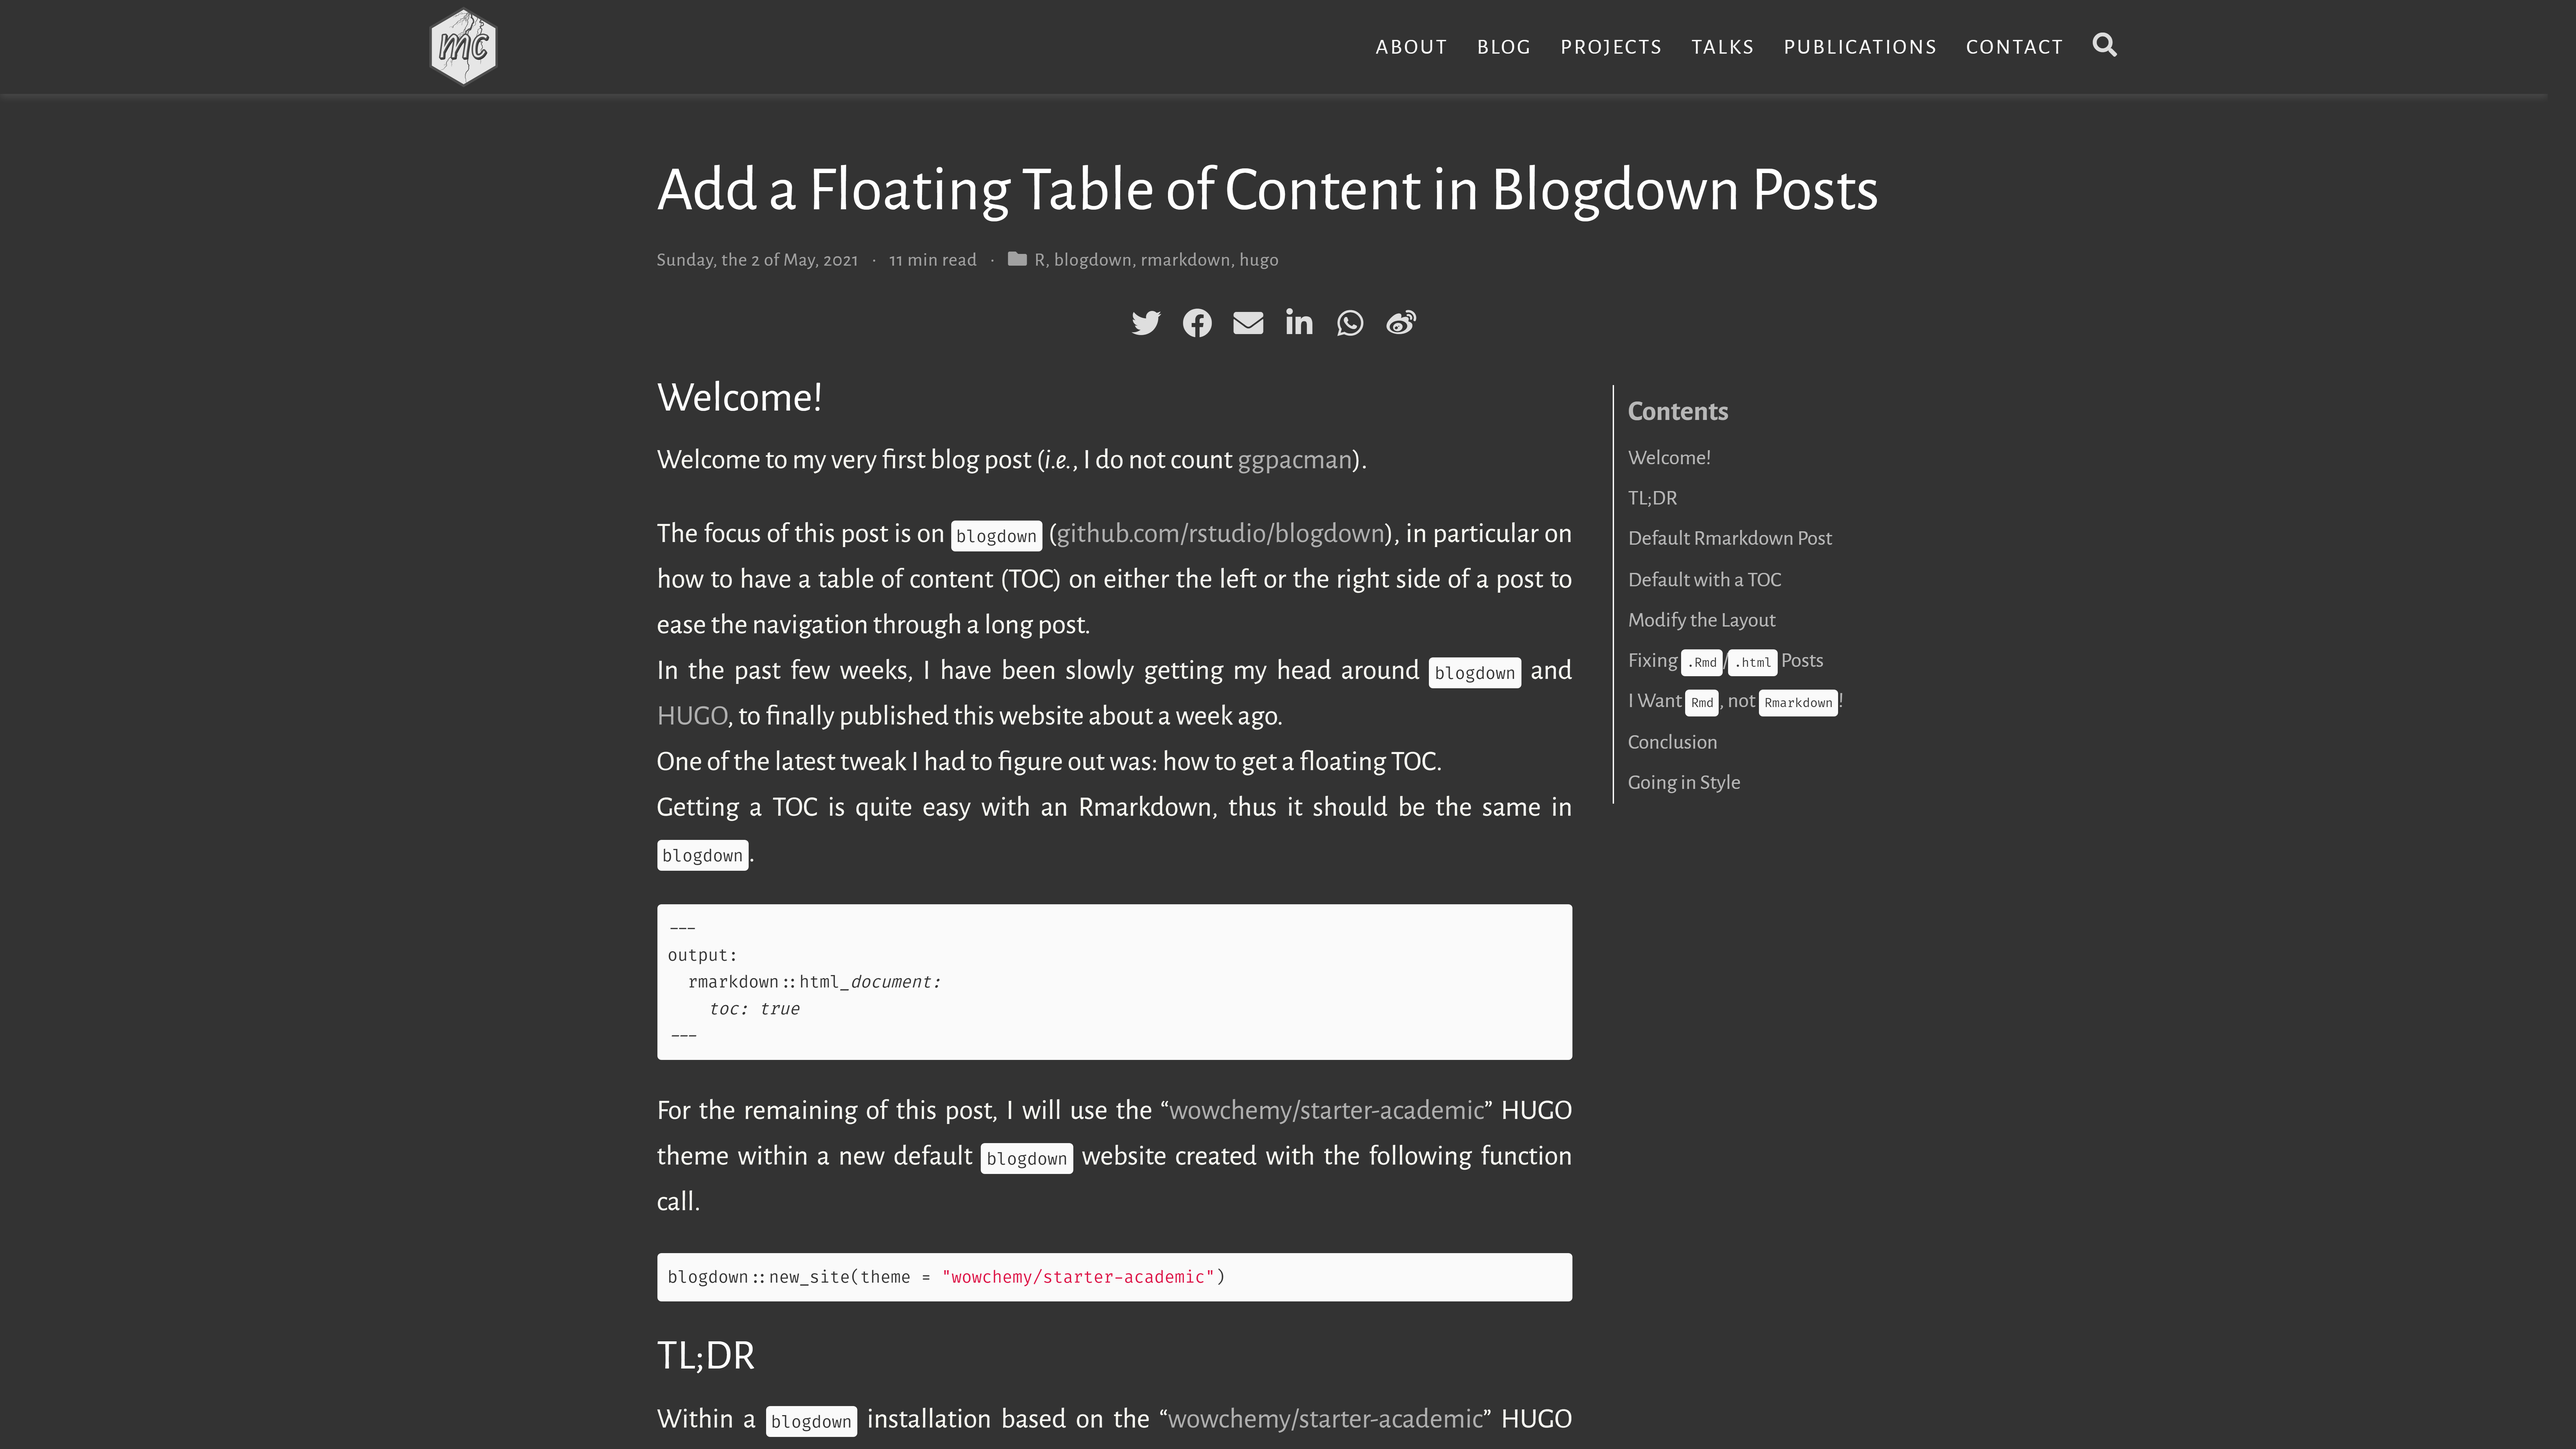
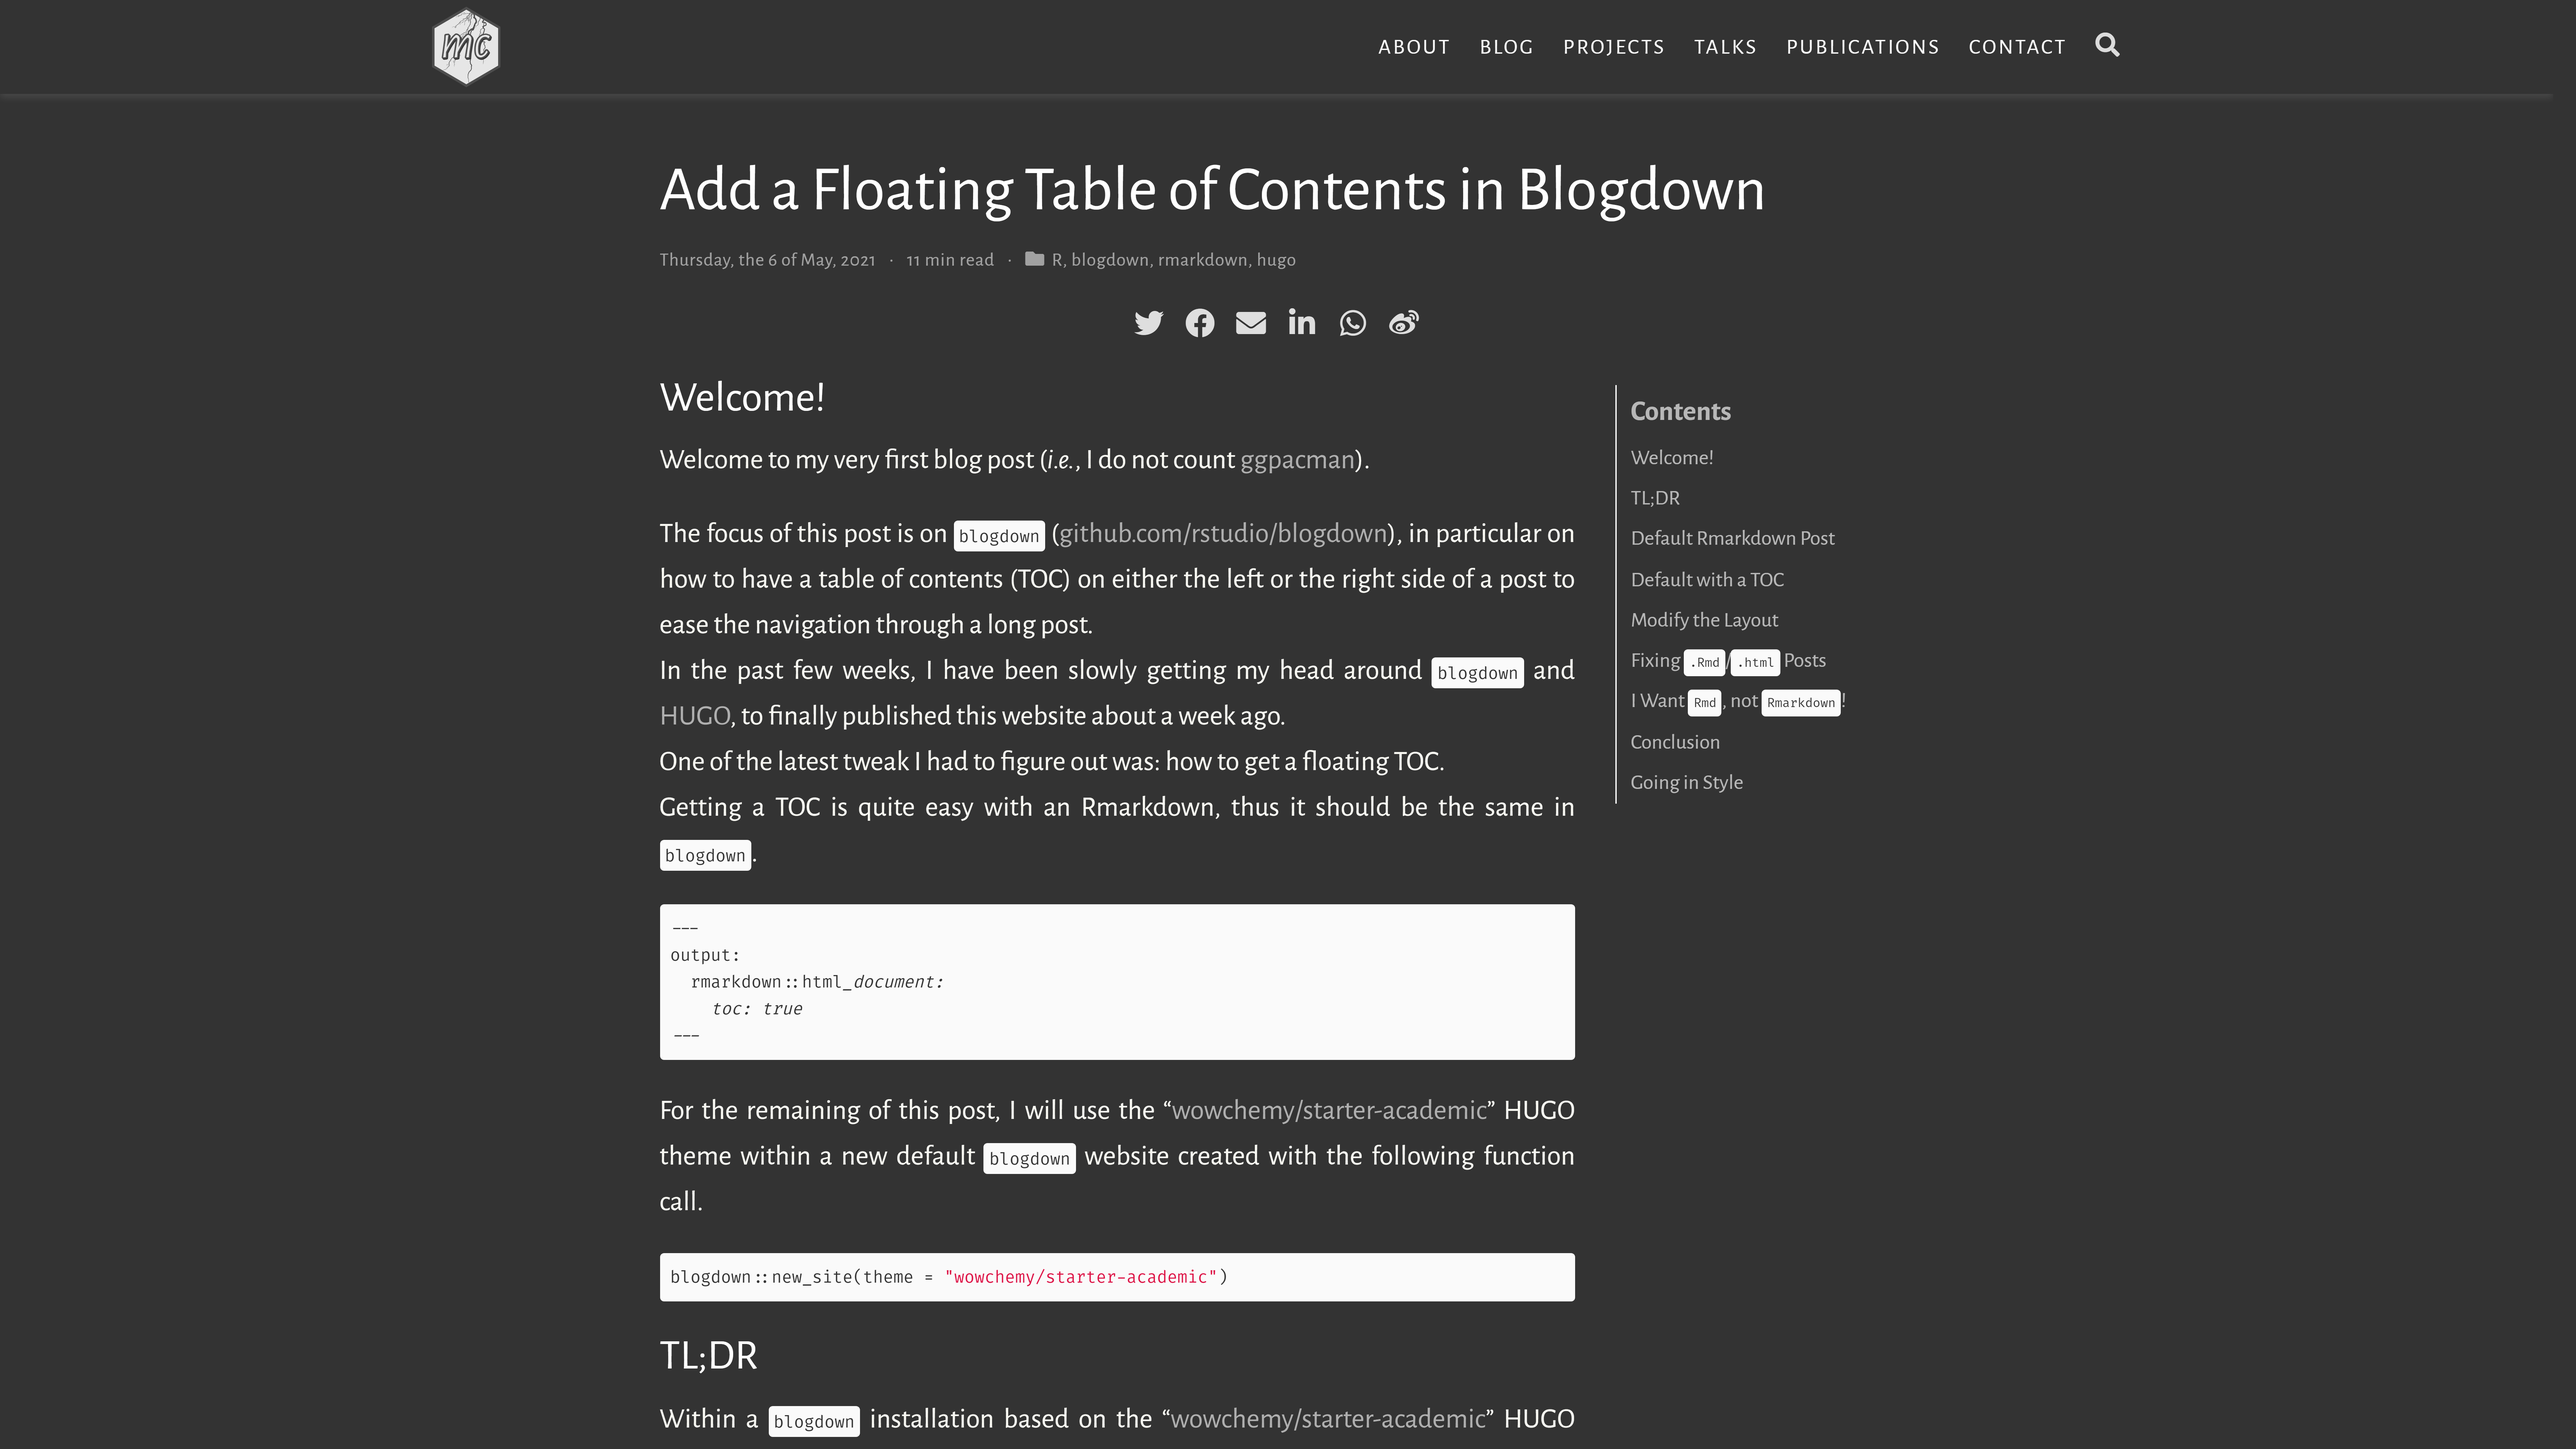
tweak title

diff --git a/content/post/2021-05-02-floating-toc-in-blogdown/index.md b/content/post/2021-05-02-floating-toc-in-blogdown/index.md
@@ -1,12 +1,12 @@
 ---
-title: 'Add a Floating Table of Content in Blogdown Posts'
+title: 'Add a Floating Table of Contents in Blogdown'
 subtitle: ''
 summary: |
-    How to have a table of content (TOC) on either the left or the right side of a post?  
+    How to have a table of contents (TOC) on either the left or the right side of a post?  
     I have an answer!
 author: mickael-canouil
-date: '2021-05-02'
-lastmod: '2021-05-02'
+date: '2021-05-06'
+lastmod: '2021-05-06'
 slug: floating-toc-in-blogdown
 categories:
   - R
@@ -43,7 +43,7 @@ output:
 
 Welcome to my very first blog post (_i.e._,&nbsp;I do not count [ggpacman](https://mickael.canouil.fr/post/ggpacman/)).
 
-The focus of this post is on `blogdown` ([github.com/rstudio/blogdown](https://github.com/rstudio/blogdown)), in particular on how to have a table of content (TOC) on either the left or the right side of a post to ease the navigation through a long post.  
+The focus of this post is on `blogdown` ([github.com/rstudio/blogdown](https://github.com/rstudio/blogdown)), in particular on how to have a table of contents (TOC) on either the left or the right side of a post to ease the navigation through a long post.  
 In the past few weeks, I have been slowly getting my head around [`blogdown`](https://github.com/rstudio/blogdown) and [HUGO](https://gohugo.io/), to finally published this website about a week ago.  
 One of the latest tweak I had to figure out was: how to get a floating TOC.  
 Getting a TOC is quite easy with an Rmarkdown, thus it should be the same in `blogdown`.
